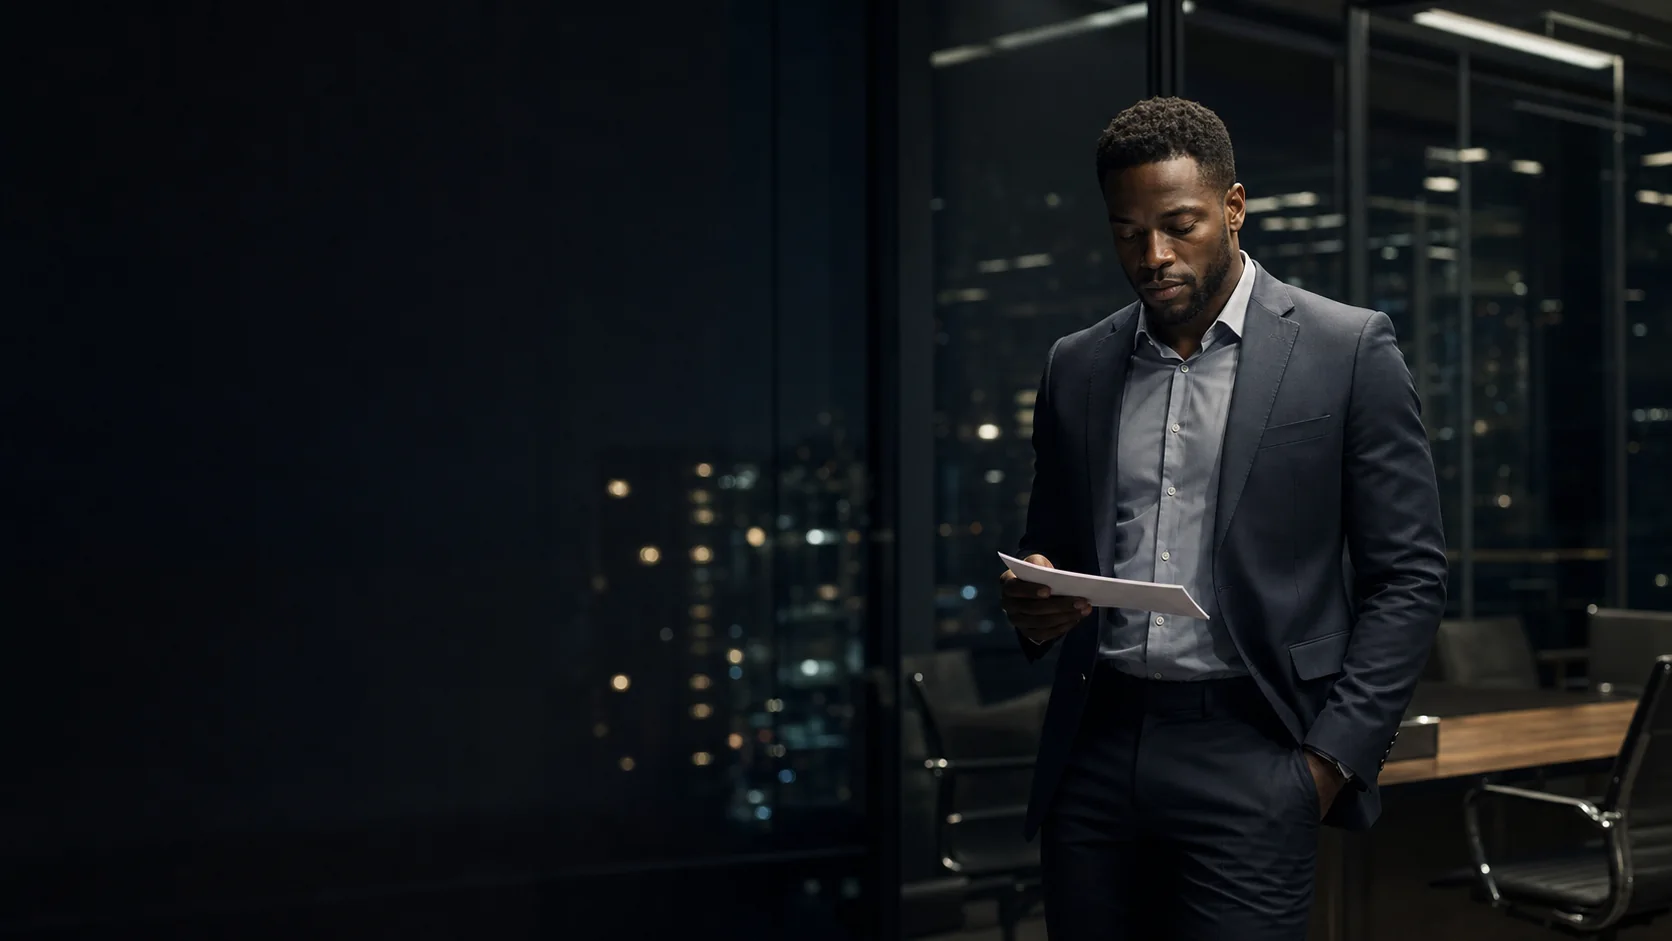
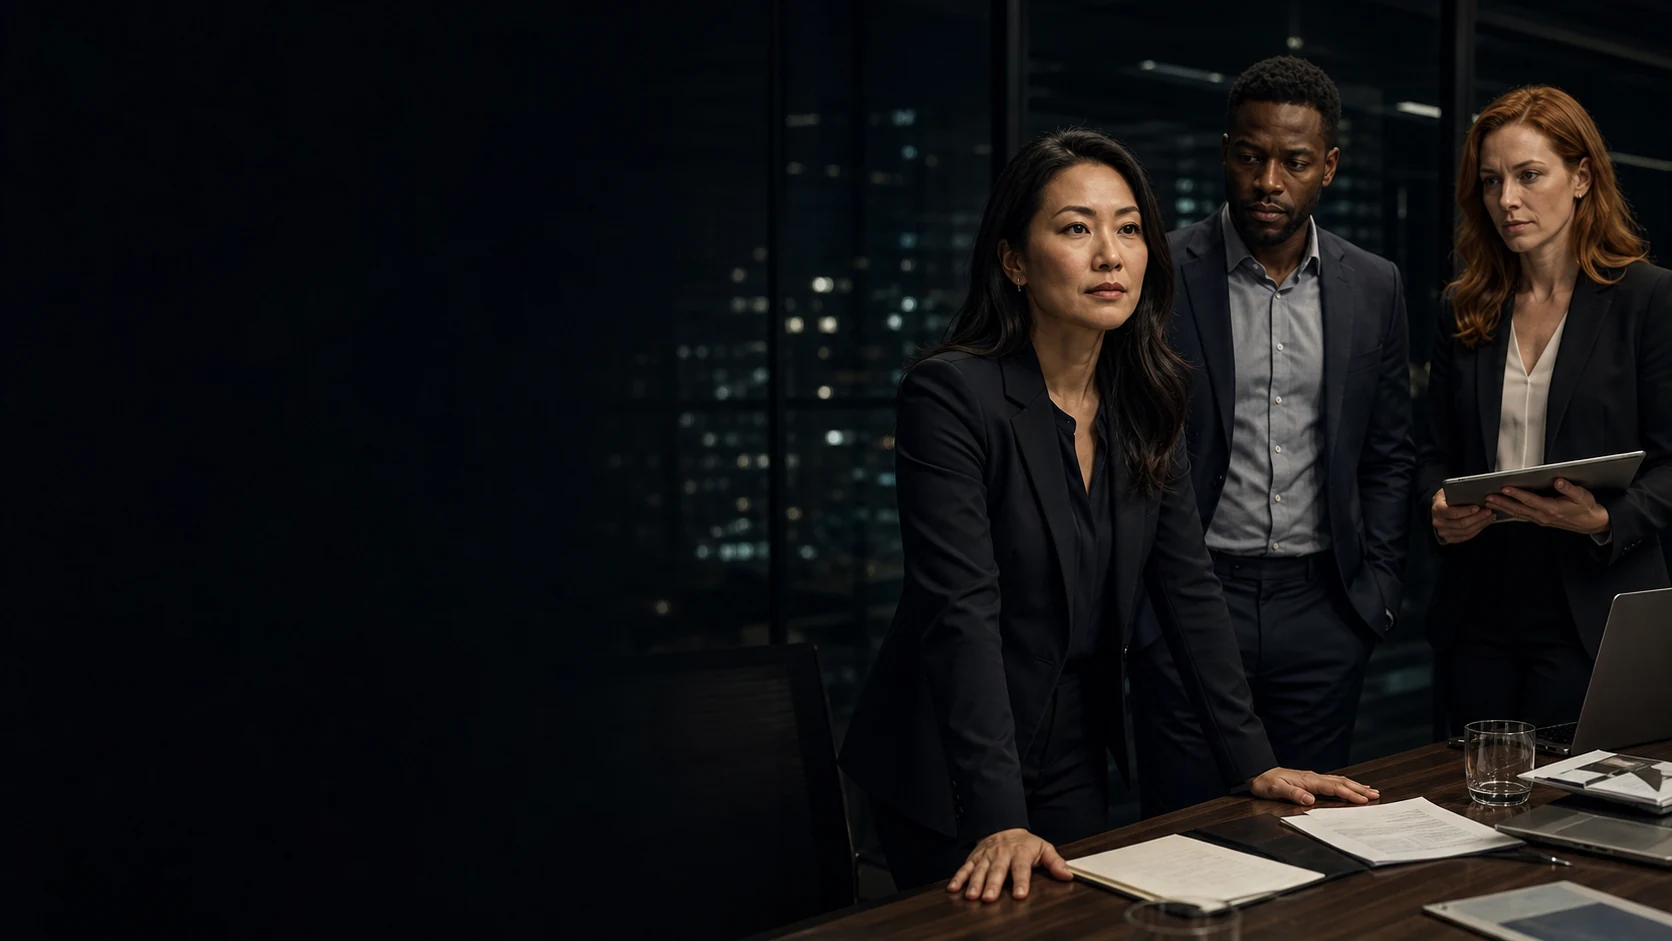
high performer
high performer

diff --git a/src/pages/PulseCheck/youth-info.tsx b/src/pages/PulseCheck/youth-info.tsx
@@ -37,7 +37,7 @@ const performersPageMeta = {
   ogTitle: 'PulseCheck | Train the Mind Like the Body.',
   ogDescription:
     'A daily mental performance system for professionals, students, athletes, and anyone who wants to handle pressure with greater focus and confidence.',
-  ogImage: '/pulsecheck-performers/performers-info-og.png',
+  ogImage: '/pulsecheck-performers/performers-info-og-v2.png',
   twitterCard: 'summary_large_image',
   lastUpdated: '2026-08-02T00:00:00.000Z',
 };
@@ -971,7 +971,7 @@ export const PulseCheckYouthInfoPage: React.FC<PulseCheckInfoPageProps> = ({ aud
       <PageHead
         metaData={isPerformers ? performersPageMeta : isPro ? proPageMeta : pageMeta}
         pageOgUrl={isPerformers ? 'https://pulsecheckmind.ai/performers-info' : isPro ? 'https://pulsecheckmind.ai/pro-info' : 'https://pulsecheckmind.ai/youth-info'}
-        pageOgImage={isPerformers ? '/pulsecheck-performers/performers-info-og.png' : isPro ? '/pulsecheck-pro-og-clean.png' : '/pulsecheck-youth/youth-info-og-branded.png'}
+        pageOgImage={isPerformers ? '/pulsecheck-performers/performers-info-og-v2.png' : isPro ? '/pulsecheck-pro-og-clean.png' : '/pulsecheck-youth/youth-info-og-branded.png'}
         themeColor={isPerformers ? '#080a0d' : isPro ? '#0b0b0e' : '#101015'}
         appleItunesAppArgument={isPerformers ? 'pulsecheck://home' : isPro ? 'pulsecheck://pro' : 'pulsecheck://youth'}
       />
@@ -995,7 +995,7 @@ export const PulseCheckYouthInfoPage: React.FC<PulseCheckInfoPageProps> = ({ aud
         <img
           className="yi-hero-image"
           src={isPerformers ? '/pulsecheck-performers/hero.webp' : isPro ? '/pulsecheck-pro/hero-athletes.webp' : '/pulsecheck-youth/next-play.webp'}
-          alt={isPerformers ? 'A business professional preparing for an important presentation' : isPro ? 'Two competitive athletes preparing before competition' : 'A young athlete focused on the field before the next play'}
+          alt={isPerformers ? 'Three business professionals preparing together for an important presentation' : isPro ? 'Two competitive athletes preparing before competition' : 'A young athlete focused on the field before the next play'}
         />
         <div className="yi-hero-shade" aria-hidden="true" />
         <div className="yi-grain" aria-hidden="true" />
@@ -1157,7 +1157,7 @@ export const PulseCheckYouthInfoPage: React.FC<PulseCheckInfoPageProps> = ({ aud
           <article className="yi-context-panel yi-context-panel--school" id="students">
             <img
               src="/pulsecheck-performers/student.webp"
-              alt="A university student preparing for an important exam or presentation"
+              alt="A Black university student preparing for an important exam or presentation"
             />
             <div className="yi-context-shade" aria-hidden="true" />
             <div className="yi-context-content">

diff --git a/src/components/common/Toast.tsx b/src/components/common/Toast.tsx
@@ -1,5 +1,6 @@
 import React, { useEffect, useRef } from 'react';
 import { useSelector, useDispatch } from 'react-redux';
+import { useRouter } from 'next/router';
 import { RootState } from '../../redux/store'; // Adjust path if needed
 import { hideToast } from '../../redux/toastSlice'; // Adjust path if needed
 import { CheckCircle, XCircle, Info, AlertTriangle, Award } from 'lucide-react';
@@ -14,8 +15,11 @@ const toastAnimation = `
 
 const Toast: React.FC = () => {
   const dispatch = useDispatch();
+  const router = useRouter();
   const { isVisible, message, type, duration } = useSelector((state: RootState) => state.toast);
   const timeoutRef = useRef<NodeJS.Timeout | null>(null);
+  const isAdminScreen = router.pathname === '/admin' || router.pathname.startsWith('/admin/');
+  const effectiveDuration = isAdminScreen ? 10000 : duration;
 
   useEffect(() => {
     // Clear previous timeout if a new toast is shown before the old one hides
@@ -28,7 +32,7 @@ const Toast: React.FC = () => {
       // Set a timeout to hide the toast after the specified duration
       timeoutRef.current = setTimeout(() => {
         dispatch(hideToast());
-      }, duration);
+      }, effectiveDuration);
     }
 
     // Cleanup timeout on component unmount or when isVisible changes
@@ -37,7 +41,7 @@ const Toast: React.FC = () => {
         clearTimeout(timeoutRef.current);
       }
     };
-  }, [isVisible, duration, dispatch]);
+  }, [isVisible, effectiveDuration, dispatch]);
 
   if (!isVisible) {
     return null;
@@ -78,7 +82,7 @@ const Toast: React.FC = () => {
   const isAward = type === 'award';
   const positionClasses = isAward 
     ? 'top-1/2 left-1/2 -translate-x-1/2 -translate-y-1/2'
-    : 'bottom-4 right-4 md:bottom-8 md:right-8';
+    : 'bottom-6 left-1/2 -translate-x-1/2 md:bottom-8';
 
   const awardSpecificClasses = isAward
     ? 'border-2 border-yellow-300 text-black'
@@ -88,7 +92,7 @@ const Toast: React.FC = () => {
     <>
       <style>{toastAnimation}</style>
       <div
-        className={`fixed z-[101] p-4 rounded-lg shadow-xl flex items-center gap-3 
+        className={`fixed z-[101] w-[min(calc(100vw-2rem),42rem)] p-4 rounded-xl shadow-2xl flex items-center gap-3
           ${positionClasses} 
           ${baseBgColor} 
           ${awardSpecificClasses} 
@@ -110,4 +114,4 @@ const Toast: React.FC = () => {
   );
 };
 
-export default Toast; 
+export default Toast;

diff --git a/src/pages/admin/pulsecheckProvisioning.tsx b/src/pages/admin/pulsecheckProvisioning.tsx
@@ -2189,21 +2189,23 @@ const PulseCheckProvisioningPage: React.FC = () => {
           : '',
       }));
       await loadData();
-      setMessage({
-        type: 'success',
-        text: nextDraft.athleteAppSubscriptionEnabled
+      dispatch(showToast({
+        message: nextDraft.athleteAppSubscriptionEnabled
           ? `${team.displayName} commercial config updated. Stripe athlete subscriptions are live at ${formatPulseCheckMonthlyPrice(
               nextDraft.athleteAppSubscriptionMonthlyPriceCents,
               nextDraft.athleteAppSubscriptionCurrency
             )} per month.`
           : `${team.displayName} commercial config updated.`,
-      });
+        type: 'success',
+        duration: 10000,
+      }));
     } catch (error) {
       console.error('[PulseCheckProvisioning] Failed to update team commercial config:', error);
-      setMessage({
+      dispatch(showToast({
+        message: error instanceof Error ? error.message : 'Failed to update team commercial config.',
         type: 'error',
-        text: error instanceof Error ? error.message : 'Failed to update team commercial config.',
-      });
+        duration: 10000,
+      }));
     } finally {
       setTeamCommercialSavingId((current) => (current === team.id ? null : current));
     }

diff --git a/netlify/functions/create-pulsecheck-athlete-app-subscription-intent.js b/netlify/functions/create-pulsecheck-athlete-app-subscription-intent.js
@@ -177,7 +177,7 @@ const handler = async (event) => {
       items: [{ price: checkout.priceId }],
       payment_behavior: 'default_incomplete',
       payment_settings: {
-        payment_method_types: ['card'],
+        payment_method_types: ['card', 'link'],
         save_default_payment_method: 'on_subscription',
       },
       metadata,
@@ -228,7 +228,7 @@ const handler = async (event) => {
         publishableKey,
         customerId: stripeCustomer.customerId,
         customerEphemeralKeySecret: stripeCustomer.ephemeralKeySecret,
-        paymentMethodTypes: paymentIntent.payment_method_types || ['card'],
+        paymentMethodTypes: paymentIntent.payment_method_types || ['card', 'link'],
         amountCents: Number(paymentIntent.amount) || 0,
         currency: normalizeString(paymentIntent.currency) || 'usd',
         teamId: checkout.teamId,

diff --git a/src/pages/performers-info.tsx b/src/pages/performers-info.tsx
@@ -13,7 +13,7 @@ export const getStaticProps = async () => ({
       title: 'PulseCheck | Mental Performance for Work, School, Sport, and Life',
       description:
         'A daily mental performance system for professionals, students, athletes, and anyone who wants to handle pressure with greater focus and confidence.',
-      image: 'https://pulsecheckmind.ai/pulsecheck-performers/performers-info-og.png',
+      image: 'https://pulsecheckmind.ai/pulsecheck-performers/performers-info-og-v2.png',
       url: 'https://pulsecheckmind.ai/performers-info',
       type: 'website',
       siteName: 'PulseCheck',
